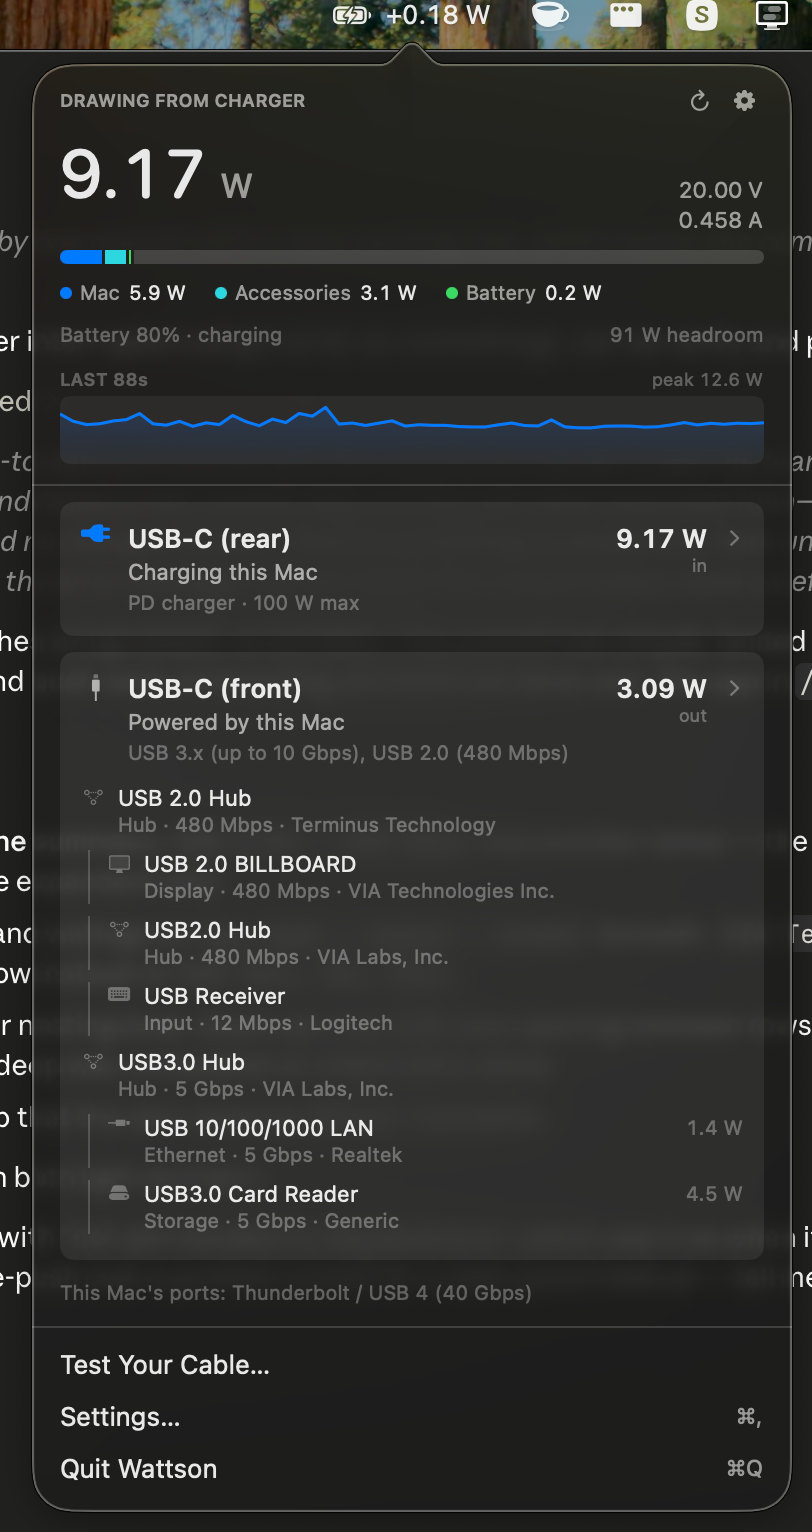
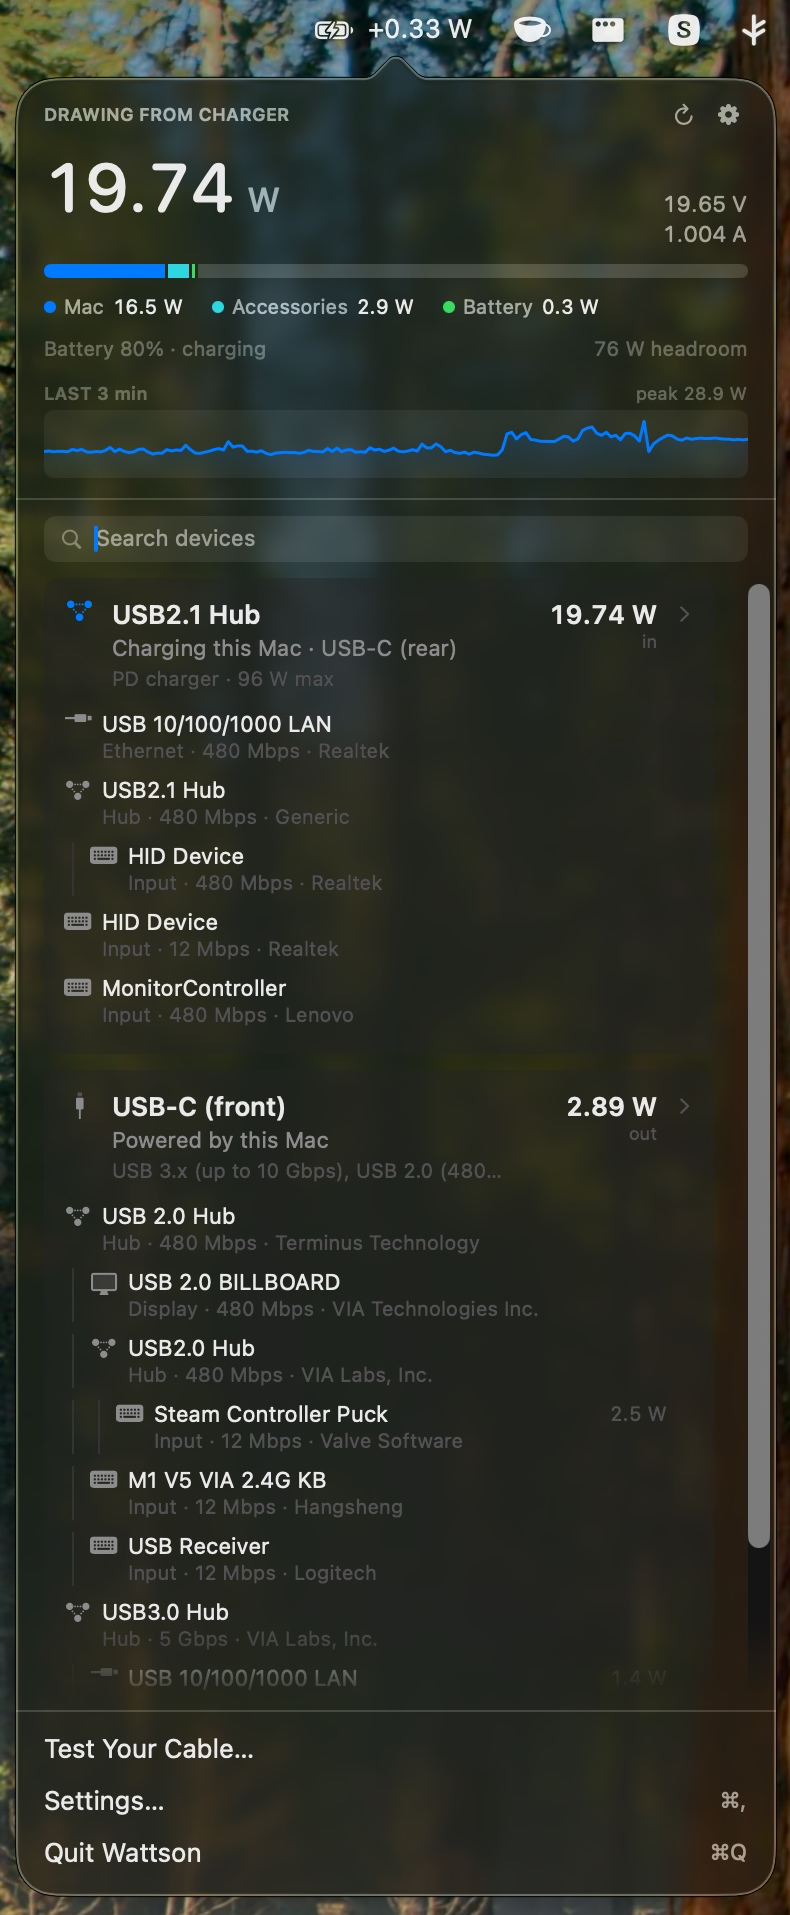
Re-shoot the panel screenshot
The old one predates the icon change, so the README was still showing the
hairline hubs the change was about — and the caption's numbers with them.

This one also happens to show all three allocation segments rather than
two, and the search field, which only appears past eight devices.

diff --git a/README.md b/README.md
@@ -6,10 +6,10 @@ is on the other end of each USB-C cable.
 Reads the SMC and the IORegistry directly — `system_profiler SPUSBDataType` returns
 an empty list on recent macOS, so it cannot be relied on.
 
-<img src="docs/panel.png" width="420" alt="The Wattson panel: live wattage, a stacked power allocation bar, and one card per physical connection with a USB-C hub expanded into its device tree.">
+<img src="docs/panel.png" width="420" alt="The Wattson panel: live wattage, a stacked power allocation bar split between the Mac, its accessories and the battery, and one card per physical connection, each expanded into the tree of devices attached to it.">
 
-Above: charging at 9.17 W over USB-C while a hub on the other port draws 3.09 W,
-with the hub's tree of devices below it.
+Above: charging at 19.74 W through a dock on the rear port, while a hub on the
+front port draws 2.89 W, each with its tree of devices below it.
 
 ## What it shows
 
